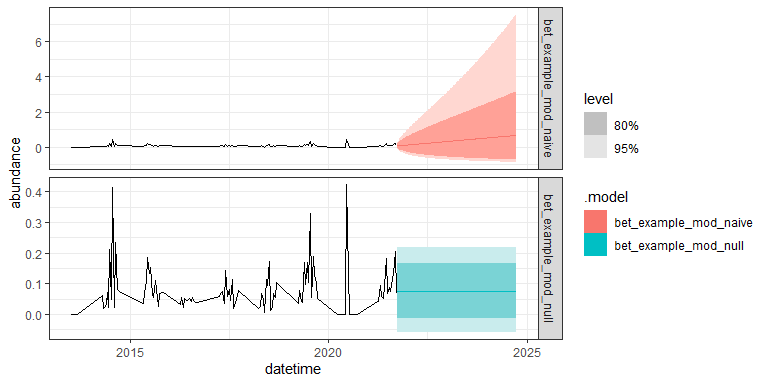
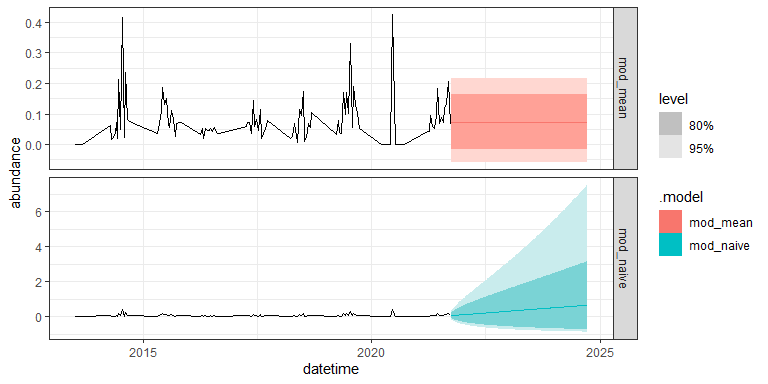
updates

diff --git a/tutorials/ESA2024/NEON_forecast_challenge_beetle_tutorial_ESA2024.md b/tutorials/ESA2024/NEON_forecast_challenge_beetle_tutorial_ESA2024.md
@@ -337,7 +337,7 @@ targets_train <- targets %>%
   as_tsibble(index = datetime)
 ```
 
-## 3.5 Getting started: some simple models
+## 3.5 Example forecasts: some simple models
 
 -   Null models
     -   `fable::MEAN()`: Historical mean and standard deviation
@@ -358,8 +358,8 @@ targets_train <- targets %>%
 mod_fits <- targets_train %>% 
   tsibble::fill_gaps() %>%
   fabletools::model(
-    bet_example_mod_null = fable::MEAN(log1p(abundance)),
-    bet_example_mod_naive = fable::NAIVE(log1p(abundance))) # random walk model, requires gapfill
+    mod_mean = fable::MEAN(log1p(abundance)),
+    mod_naive = fable::NAIVE(log1p(abundance))) # random walk model, requires gapfill
 
 # make a forecast
 fc_null <- mod_fits %>%
@@ -455,9 +455,9 @@ examine model fit statistics.
 # specify and fit model
 mod_fit_candidates <- targets_clim_train %>%
   fabletools::model(
-    bet_example_tslm_temp = fable::TSLM(log1p(abundance) ~ temperature_2m_mean),
-    bet_example_tslm_precip = fable::TSLM(log1p(abundance) ~ precipitation_sum),
-    bet_example_tslm_temp_precip = fable::TSLM(log1p(abundance) ~ temperature_2m_mean + precipitation_sum))
+    mod_temp = fable::TSLM(log1p(abundance) ~ temperature_2m_mean),
+    mod_precip = fable::TSLM(log1p(abundance) ~ precipitation_sum),
+    mod_temp_precip = fable::TSLM(log1p(abundance) ~ temperature_2m_mean + precipitation_sum))
 
 # look at fit stats
 fabletools::report(mod_fit_candidates)
@@ -466,9 +466,9 @@ fabletools::report(mod_fit_candidates)
     ## # A tibble: 3 × 15
     ##   .model   r_squared adj_r_squared  sigma2 statistic p_value    df log_lik   AIC
     ##   <chr>        <dbl>         <dbl>   <dbl>     <dbl>   <dbl> <int>   <dbl> <dbl>
-    ## 1 bet_exa…  0.0332         0.0245  0.00416    3.78    0.0544     2    149. -610.
-    ## 2 bet_exa…  0.000797      -0.00829 0.00430    0.0877  0.768      2    147. -606.
-    ## 3 bet_exa…  0.0333         0.0156  0.00420    1.88    0.158      3    149. -608.
+    ## 1 mod_temp  0.0332         0.0245  0.00416    3.78    0.0544     2    149. -610.
+    ## 2 mod_pre…  0.000797      -0.00829 0.00430    0.0877  0.768      2    147. -606.
+    ## 3 mod_tem…  0.0333         0.0156  0.00420    1.88    0.158      3    149. -608.
     ## # ℹ 6 more variables: AICc <dbl>, BIC <dbl>, CV <dbl>, deviance <dbl>,
     ## #   df.residual <int>, rank <int>
 
@@ -479,11 +479,17 @@ Plot the predicted versus observed abundance data:
 # augment reformats model output into a tsibble for easier plotting
 fabletools::augment(mod_fit_candidates) %>%
   ggplot(aes(x = datetime)) +
-  geom_line(aes(y = abundance, color = "Obs")) +
-  geom_line(aes(y = .fitted, color = .model))
+  geom_line(aes(y = abundance, lty = "Obs"), color = "dark gray") +
+  geom_line(aes(y = .fitted, color = .model, lty = "Model")) +
+  facet_grid(.model ~ .) +
+  theme_bw()
 ```
 
-![](NEON_forecast_challenge_beetle_tutorial_ESA2024_files/figure-markdown_github/unnamed-chunk-4-1.png)
+<img src="NEON_forecast_challenge_beetle_tutorial_ESA2024_files/figure-markdown_github/plot tslm modeled vs observed-1.png" alt="Figure: TSLM predictions of beetle abundances at OSBS compared against observed data"  />
+<p class="caption">
+Figure: TSLM predictions of beetle abundances at OSBS compared against
+observed data
+</p>
 
 We could use all of these models to make an ensemble forecast, but for
 simplicity, we will just take the best model (lowest AICc), and use that
@@ -491,7 +497,7 @@ to create a forecast:
 
 ``` r
 # focus on temperature model for now
-mod_best_lm <- mod_fit_candidates %>% select(bet_example_tslm_temp)
+mod_best_lm <- mod_fit_candidates %>% select(mod_temp)
 report(mod_best_lm)
 ```
 
@@ -522,14 +528,22 @@ fc_best_lm <- mod_best_lm %>%
     new_data = 
       clim_future %>%
       as_tsibble(index = datetime)) 
+```
 
+Visualize the forecast.
+
+``` r
 # visualize the forecast
 fc_best_lm %>% 
   autoplot(targets_train) +
-  facet_grid(.model ~ .)
+  facet_grid(.model ~ .) + 
+  theme_bw()
 ```
 
-![](NEON_forecast_challenge_beetle_tutorial_ESA2024_files/figure-markdown_github/unnamed-chunk-5-1.png)
+<img src="NEON_forecast_challenge_beetle_tutorial_ESA2024_files/figure-markdown_github/plot tslm forecast-1.png" alt="Figure: TSLM forecast of beelte abundance at OSBS"  />
+<p class="caption">
+Figure: TSLM forecast of beelte abundance at OSBS
+</p>
 
 ``` r
 # format for submission to EFI
@@ -538,8 +552,9 @@ fc_best_lm %>%
 # https://projects.ecoforecast.org/neon4cast-ci/instructions.html
 # I'm putting "example" in the name so the model does not register as 
 # an official entry to the challenge
+```
 
-
+``` r
 # update dataframe of model output for submission
 fc_climate_mods_efi <- fc_best_lm %>% 
   mutate(site_id = my_site) %>% #efi needs a NEON site ID
